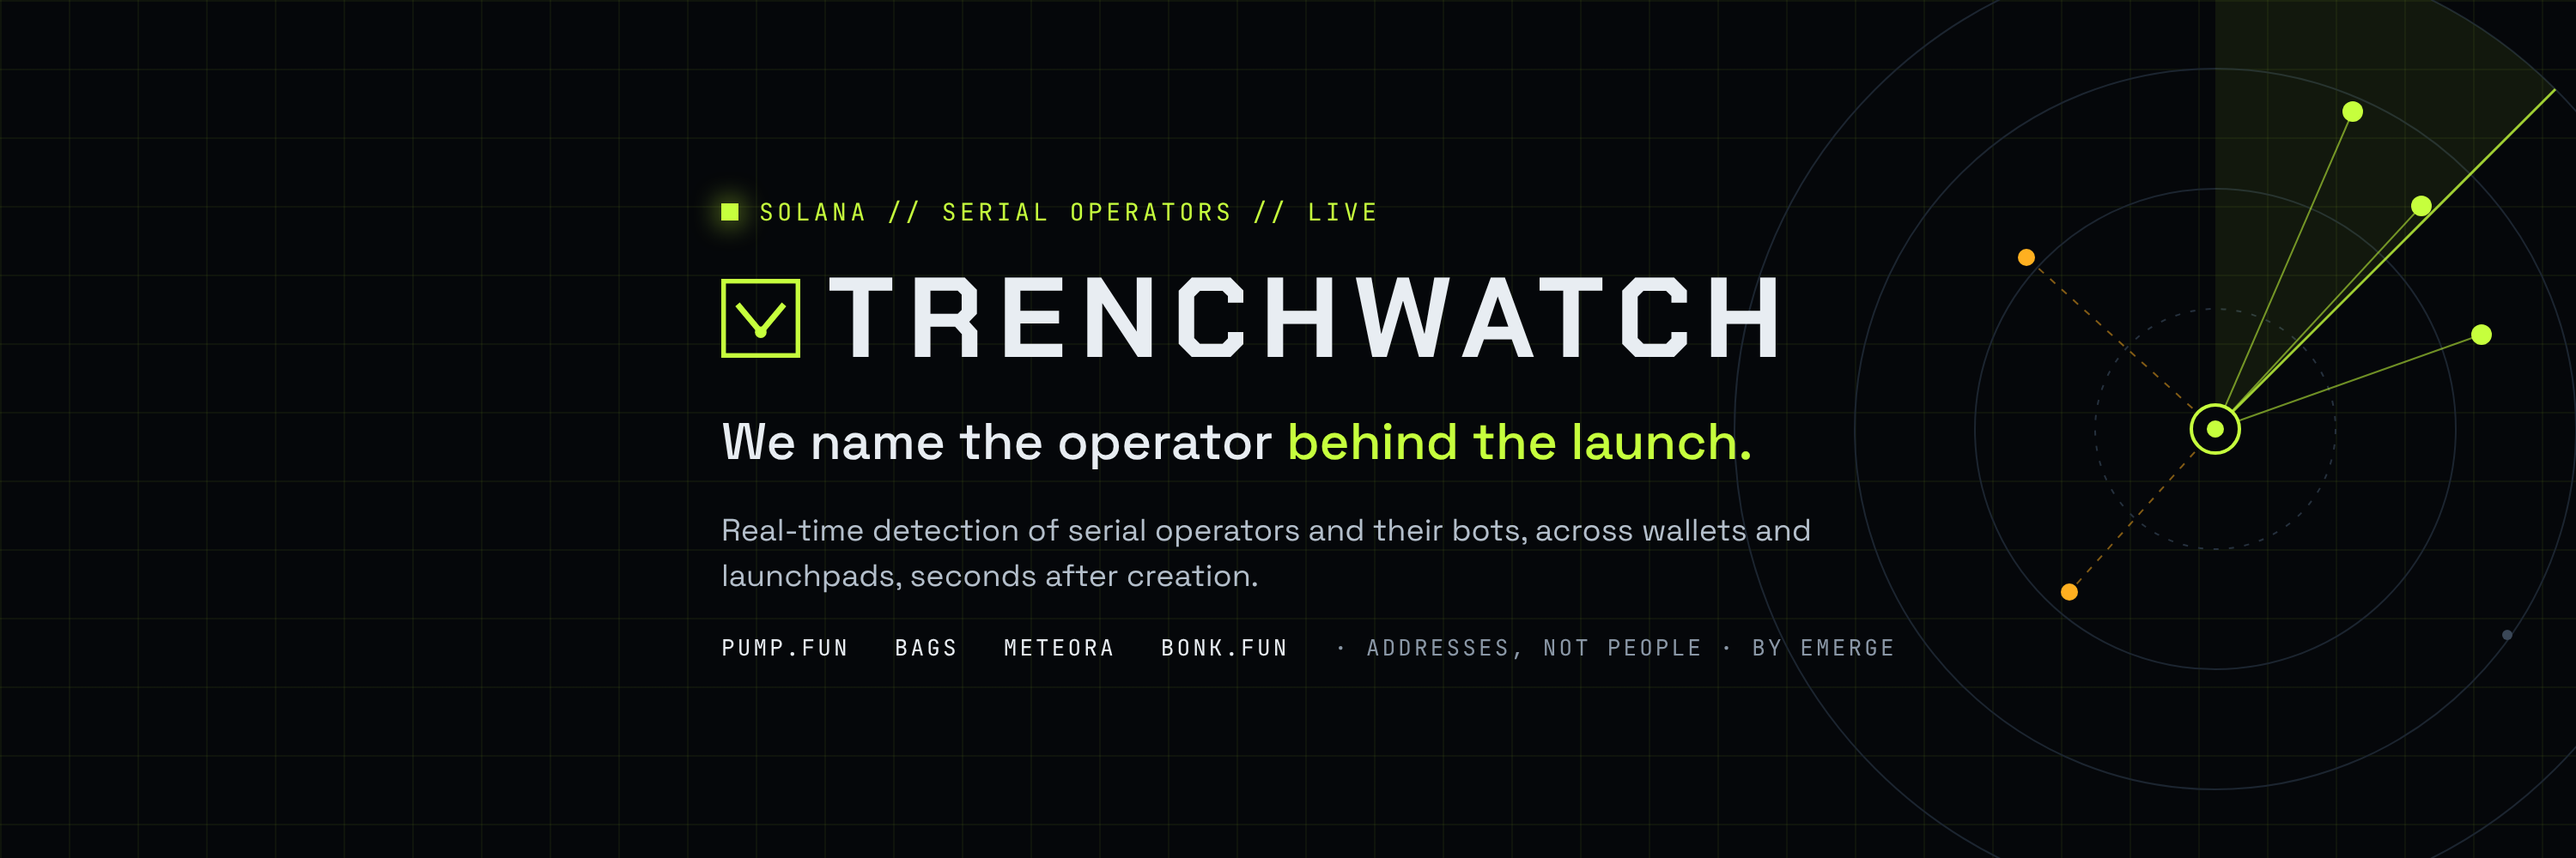
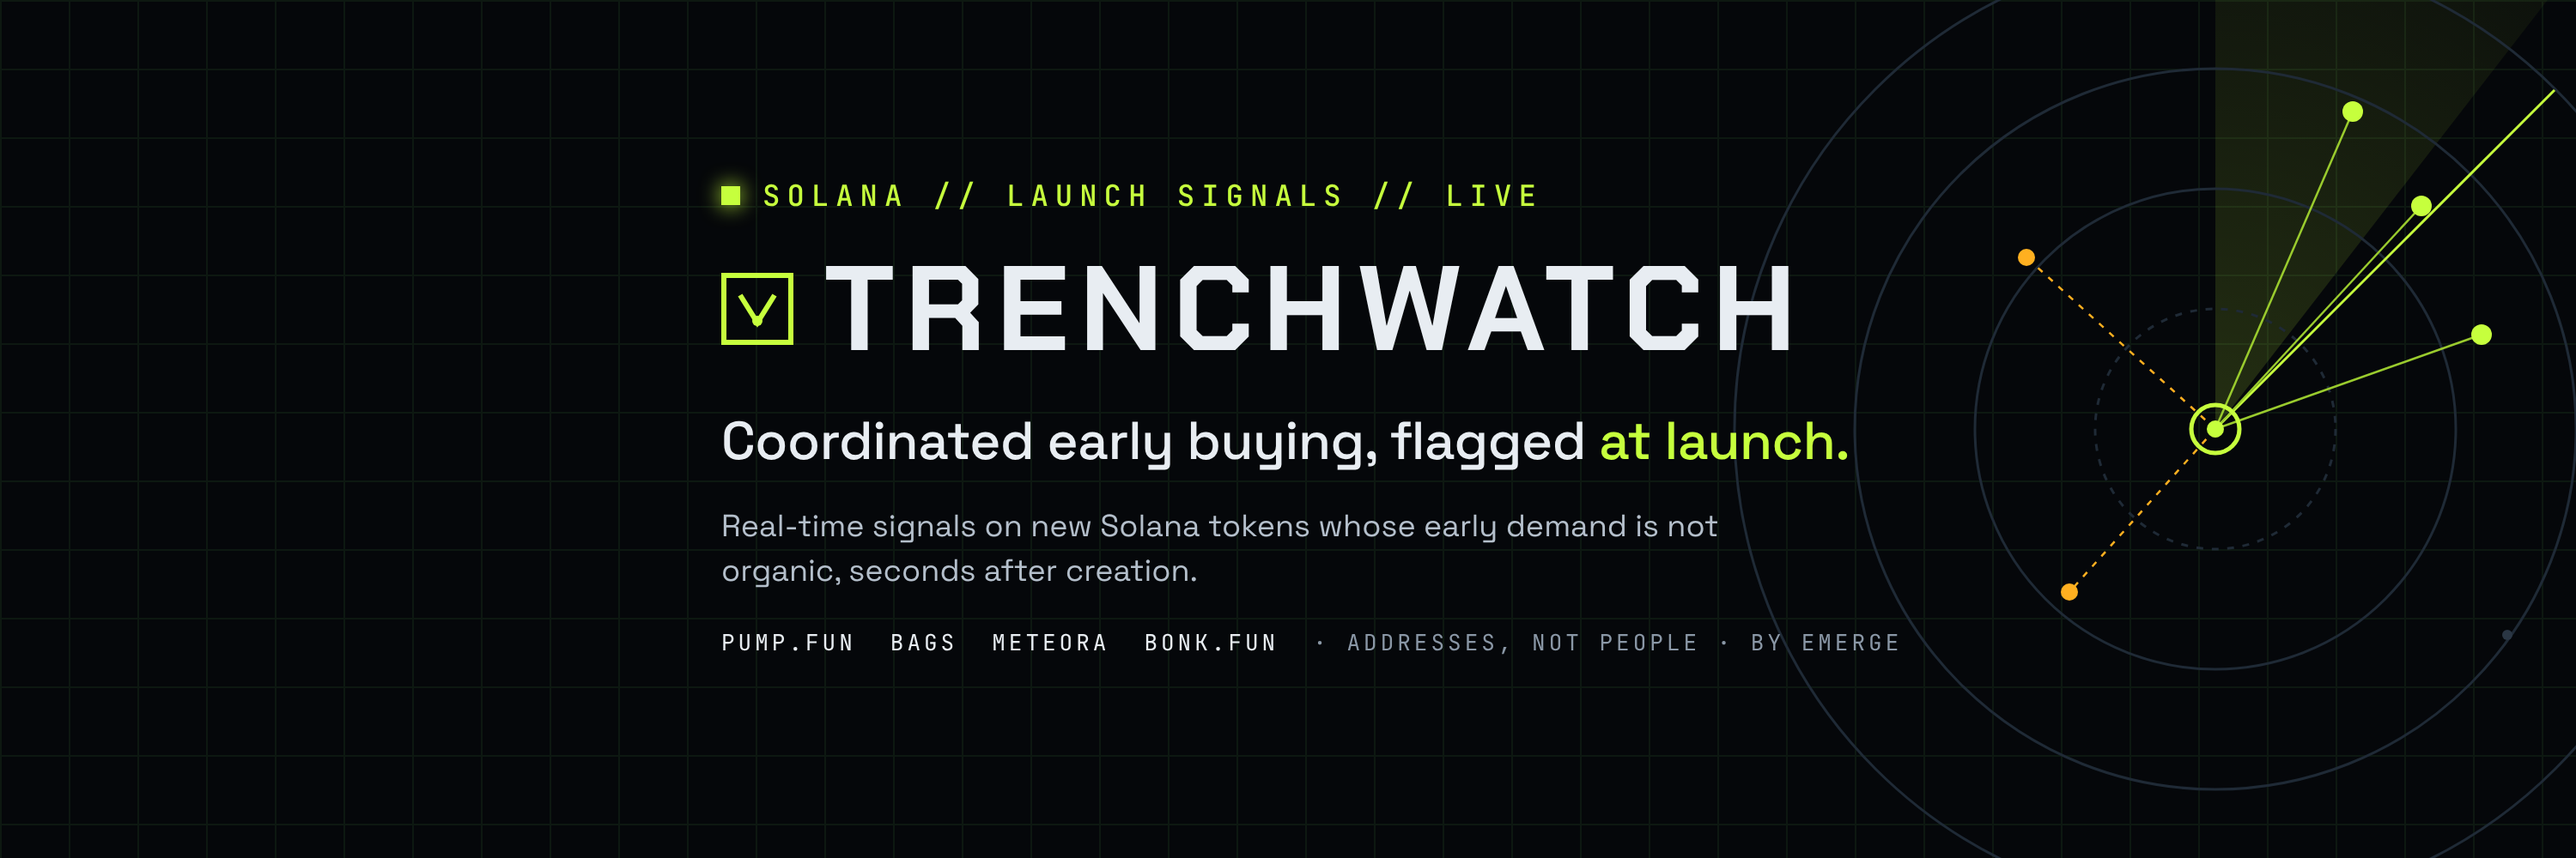
Docs: public sandbox, updated wording

diff --git a/docs/api/README.md b/docs/api/README.md
@@ -1,39 +1,39 @@
 # Trenchwatch API · v1 (api_version 2026-10)
 
-Trenchwatch tells your product, in milliseconds, whether a new Solana token or address matches addresses already seen in repeat launches, and pushes an alert to your systems seconds after the launch. This guide covers everything you need to integrate: authentication, the sandbox, the four REST endpoints and the signed webhook.
+Trenchwatch tells your product, in milliseconds, whether a new Solana token or address is linked to a known group of coordinated wallets, and pushes an alert to your systems seconds after a launch whose early buying is not organic. This guide covers everything you need to integrate: authentication, the sandbox, the four REST endpoints and the signed webhook.
 
 > Alerts are probabilistic observations based on public on-chain data. They describe addresses and patterns, not people, and are not financial advice. Using alerts to trade alongside the addresses they describe is not permitted under the licence.
->
-> **Naming note.** Field and type names (`operator`, `operator_launch`…) are the stable v1 identifiers of the open standard. In this API an "operator" is simply a group of addresses that Trenchwatch has seen across repeat launches, identified by a stable ID. It says nothing about who is behind them.
 
 ---
 
 ## 1. Environments
 
-| Environment | Base URL | Keys | Data |
-| --- | --- | --- | --- |
-| Sandbox | Sent with your test keys | `tw_test_…` | Synthetic, fixed, flagged `"sandbox": true`. Addresses do not exist on-chain |
-| Production | Sent with your live keys | `tw_live_…` | Live detections |
+| Environment | Base URL | Keys | Data | Availability |
+| --- | --- | --- | --- | --- |
+| Sandbox | `https://sandbox-api.trenchwatch.dev/v1` | `tw_test_…` | Synthetic and fixed, flagged `"sandbox": true`. Addresses do not exist on-chain | Available now. Test keys on request |
+| Production | Provided with your licence | `tw_live_…` | Live detections | Licensed partners |
 
 A test key never works in production and a live key never works in the sandbox (`401`). Start in the sandbox: it returns the same shapes as production, and `GET /v1/health` lists example addresses for every case.
+
+To request a sandbox key, write to info@trenchwatch.dev.
 
 ## 2. Authentication and limits
 
 Send your key in the `X-API-Key` header on every request except `/v1/health`.
 
 ```bash
-curl -H "X-API-Key: tw_test_XXXXXXXX" https://<sandbox-base-url>/v1/token/<mint>
+curl -H "X-API-Key: tw_test_XXXXXXXX" https://sandbox-api.trenchwatch.dev/v1/token/<mint>
 ```
 
 - Keys are shown once when issued; we store only a hash. If a key leaks, ask for a new one and the old one is revoked.
 - Rate limit: 600 requests per minute per key (higher on request). Over the limit: `429`.
-- Every response carries `X-Trenchwatch-Api-Version: 2026-10` and a `took_ms` field.
+- Every response carries the header `X-Trenchwatch-Api-Version: 2026-10` and a `took_ms` field.
 
 ## 3. Endpoints
 
 ### `GET /v1/health`
 
-No key needed. Service status. In the sandbox it also returns example addresses.
+No key needed. Service status. In the sandbox it also returns example addresses to try.
 
 ```json
 {"ok": true, "mode": "sandbox", "api_version": "2026-10",
@@ -55,10 +55,11 @@ Risk of a token, asked before a swap, a listing or a promotion.
   "creator_operator": {"id": "TW-9001", "level": "confirmed", "first_seen": "2026-10-01 00:00:00",
                        "last_seen": "2026-10-12 02:09:03", "launches_per_hour": 12.0},
   "linked_operators_buying": [],
-  "signals": ["early buyers already seen with this creator", "early sells within the first seconds", "repeat creator"],
+  "signals": ["early buyers from wallets linked to this creator", "sells within the first seconds", "repeated launches by this creator"],
   "early_buyers": 9,
   "early_sol": 4.2,
-  "evidence_note": "Probabilistic, based on public on-chain data. Addresses and patterns, not people. Not financial advice.",
+  "sandbox": true,
+  "evidence_note": "SANDBOX DATA. Addresses are synthetic and do not exist on-chain.",
   "took_ms": 0.3
 }
 ```
@@ -66,8 +67,8 @@ Risk of a token, asked before a swap, a listing or a promotion.
 | Field | Meaning |
 | --- | --- |
 | `risk` | `HIGH`, `ELEVATED`, `LOW`, or `UNKNOWN` (token not seen by Trenchwatch) |
-| `creator_operator` | The address group the creator belongs to, or `null` |
-| `linked_operators_buying` | Other known address groups that bought early |
+| `creator_operator` | The creator's entry in the Trenchwatch registry of addresses with repeated launch activity, or `null` |
+| `linked_operators_buying` | Other registry entries whose linked wallets bought early |
 | `signals` | Plain-language reasons, for display or logs |
 | `early_buyers`, `early_sol` | Distinct buyers and SOL in the first seconds after creation |
 
@@ -75,7 +76,7 @@ Suggested use: `HIGH` → show a warning before the swap or hold the listing; `E
 
 ### `GET /v1/operator/{address}`
 
-Is this address part of a known address group?
+Is this address in the registry, or one of the wallets linked to a registry entry?
 
 ```json
 {"address": "5JYE9C44QkhczUApEt4YJvoERXS37e8FMdT8nBsLo21p", "role": "coordinated_wallet",
@@ -95,9 +96,11 @@ The latest alerts, newest first, for teams that prefer polling to a webhook. `si
              "operator": {"id": "TW-9001", "level": "confirmed", "launches_per_hour": 12.0}}]}
 ```
 
-## 4. Address groups, levels and alert types
+## 4. Registry IDs, levels and alert types
 
-**Group IDs** (`TW-0001`…) are stable: the same address group keeps its ID across wallets and launchpads. Group `level`: `confirmed`, `probable`, `serial` (many launches, no linked wallets found yet), `repeat`.
+**Registry IDs** (`TW-0001`…) are stable: the same entry keeps its ID across wallets and launchpads. Registry `level`: `confirmed` (verified after review), `probable` (linked wallets found), `serial` (many launches, no linked wallets found yet), `repeat`.
+
+Field and type names such as `operator` are technical identifiers kept stable for compatibility. They refer to addresses and patterns, not to people.
 
 **Evidence levels** are categories, not scores:
 
@@ -105,25 +108,25 @@ The latest alerts, newest first, for teams that prefer polling to a webhook. `si
 | --- | --- |
 | `RELATED` | A transactional relationship was observed. On its own it does not prove common control |
 | `COORDINATED` | Coordinated technical or timing behaviour between linked wallets |
-| `SUSPECTED` | Several independent signals point in the same direction |
+| `SUSPECTED` | Several independent signals point to non-organic demand |
 | `CONFIRMED` | Assigned only after external verification, never automatically |
 
 **Alert types** (stable codes; new ones may be added, so ignore codes you do not know):
 
 | `type` | What happened | Typical action |
 | --- | --- | --- |
-| `operator_cluster_buy` | Several wallets of one known address group bought a token in its first seconds | Show context before users buy; review promotion |
-| `coordinated_support` | Wallets of a group bought a token created by the same group | Show context; review the listing |
-| `operator_launch` | A known address group created a token | Label the token |
-| `linked_wallet_buy` | A wallet linked to a group bought | Context for other alerts |
-| `funding_batch` | A group funded a set of new wallets at once | Add them to your watchlist |
-| `linked_wallet` | A new wallet was linked to a group | Treat it as part of the group |
-| `profit_sweep` | Proceeds consolidated into one of the group's wallets | Review its recent launches |
+| `operator_cluster_buy` | Several wallets linked to one registry entry bought a token in its first seconds | Warn users before they buy; hold promotion |
+| `coordinated_support` | Linked wallets bought a token created by the same registry entry | Warn users; review the listing |
+| `operator_launch` | A registry entry created a token | Label the token |
+| `linked_wallet_buy` | A linked wallet bought | Context for other alerts |
+| `funding_batch` | A registry entry funded a set of fresh wallets at once | Add them to your watchlist |
+| `linked_wallet` | A new wallet was linked to a registry entry | Treat it as linked in your risk rules |
+| `profit_sweep` | Proceeds were consolidated to a common address | Review recent launches by that entry |
 | `exit_route` | Proceeds converged on a common destination | Context |
 
 ## 5. Webhook
 
-With an annual licence we push every alert to an HTTPS endpoint you choose. Your endpoint must answer `2xx` within 5 seconds; do the heavy work afterwards.
+With a licence we push every alert to an HTTPS endpoint you choose. Your endpoint must answer `2xx` within 5 seconds; do the heavy work afterwards.
 
 **Request**
 
@@ -144,7 +147,7 @@ X-Trenchwatch-Signature: 6f1c…(hex)
   "detected_at_utc": "2026-10-12 02:00:00",
   "token": "<mint>",
   "operator": {"id": "TW-0145", "address": "<address>"},
-  "summary": "5 wallets of address group TW-0145 bought this token shortly after launch. The same group created the token.",
+  "summary": "<plain-language description of what was observed>",
   "evidence": [{"step": "buy", "wallet": "<address>", "s after launch": 2, "transaction": "<signature>"}],
   "transaction": "<signature>",
   "sandbox": false
@@ -178,9 +181,11 @@ function isValid(secret, timestamp, rawBody, signature) {
 }
 ```
 
+Ready-made verifiers for TypeScript, Python and Rust are in the open standard: https://github.com/Trenchwatch/solana-launch-alerts
+
 **Retries and duplicates.** If your endpoint does not answer `2xx`, we retry 3 times over about 10 minutes (after 30 s, 2 min and 7.5 min). A retried alert keeps the same `id`: use it to ignore duplicates.
 
-**Test event.** Ask us for a test event at any time: it arrives signed with your secret, `"sandbox": true` and `"type": "operator_cluster_buy"`.
+**Test event.** Ask us for a test event at any time: it arrives signed with your secret, with `"sandbox": true` and `"type": "operator_cluster_buy"`.
 
 ## 6. Errors
 
@@ -189,7 +194,7 @@ function isValid(secret, timestamp, rawBody, signature) {
 | `401` | Missing or invalid key, or a test key in production (or the reverse) |
 | `404` | Unknown path |
 | `429` | Rate limit exceeded |
-| `500` | Internal error; retry with backoff and tell support if it persists |
+| `500` | Internal error; retry with backoff and tell us if it persists |
 
 Errors return `{"error": "<message>"}`.
 
@@ -197,10 +202,10 @@ Errors return `{"error": "<message>"}`.
 
 - The path version (`/v1`) changes only for breaking changes, announced at least 90 days ahead.
 - Within v1 we may add fields, alert types and endpoints. Your integration should ignore what it does not recognise.
-- Every change is listed below with its date.
 
 | Date | Change |
 | --- | --- |
-| 2026-10-12 | v1 published: token, operator, alerts, health; signed webhook with timestamp; sandbox |
+| 2026-10-12 | v1: token, operator, alerts and health endpoints; signed webhook with timestamp; sandbox |
+| 2026-11-20 | Public sandbox at `sandbox-api.trenchwatch.dev` |
 
-Support: [info@trenchwatch.dev](mailto:info@trenchwatch.dev)
+Contact: info@trenchwatch.dev · https://trenchwatch.dev

diff --git a/README.md b/README.md
@@ -6,7 +6,7 @@
 
 **Real-time launch-risk alerts for Solana launchpads, with the on-chain evidence behind every alert.**
 
-Every day, around 41,700 tokens launch on Solana's major launchpads. A meaningful share come from repeat, serial creators, and their early demand often arrives within the first seconds. Trenchwatch reads every new launch on five major Solana launchpads as it happens and sends platforms an alert, with the on-chain evidence, within seconds. Platforms decide what to do with it: label a token, warn users before they buy, or review a listing.
+Every day, around 41,700 tokens launch on Solana's major launchpads. A meaningful share come from repeat creators, and their early demand often arrives within the first seconds. Trenchwatch reads every new launch on five major Solana launchpads as it happens and sends platforms an alert, with the on-chain evidence, within seconds. Platforms decide what to do with it: label a token, warn users before they buy, or review a listing.
 
 > This repository is the public overview of Trenchwatch: what it does, how to integrate it and how to work with us. The detection engine is proprietary and is not published here.
 
@@ -71,7 +71,7 @@ Alerts follow **Solana Launch Alerts**, an open, MIT-licensed standard for launc
 - **[API documentation](docs/api/README.md)**
 - **[OpenAPI specification](docs/api/openapi.yaml)**
 
-Sandbox access is available on request.
+Sandbox: `https://sandbox-api.trenchwatch.dev/v1/health` (synthetic data; test keys on request at info@trenchwatch.dev).
 
 ## Who it is for
 
